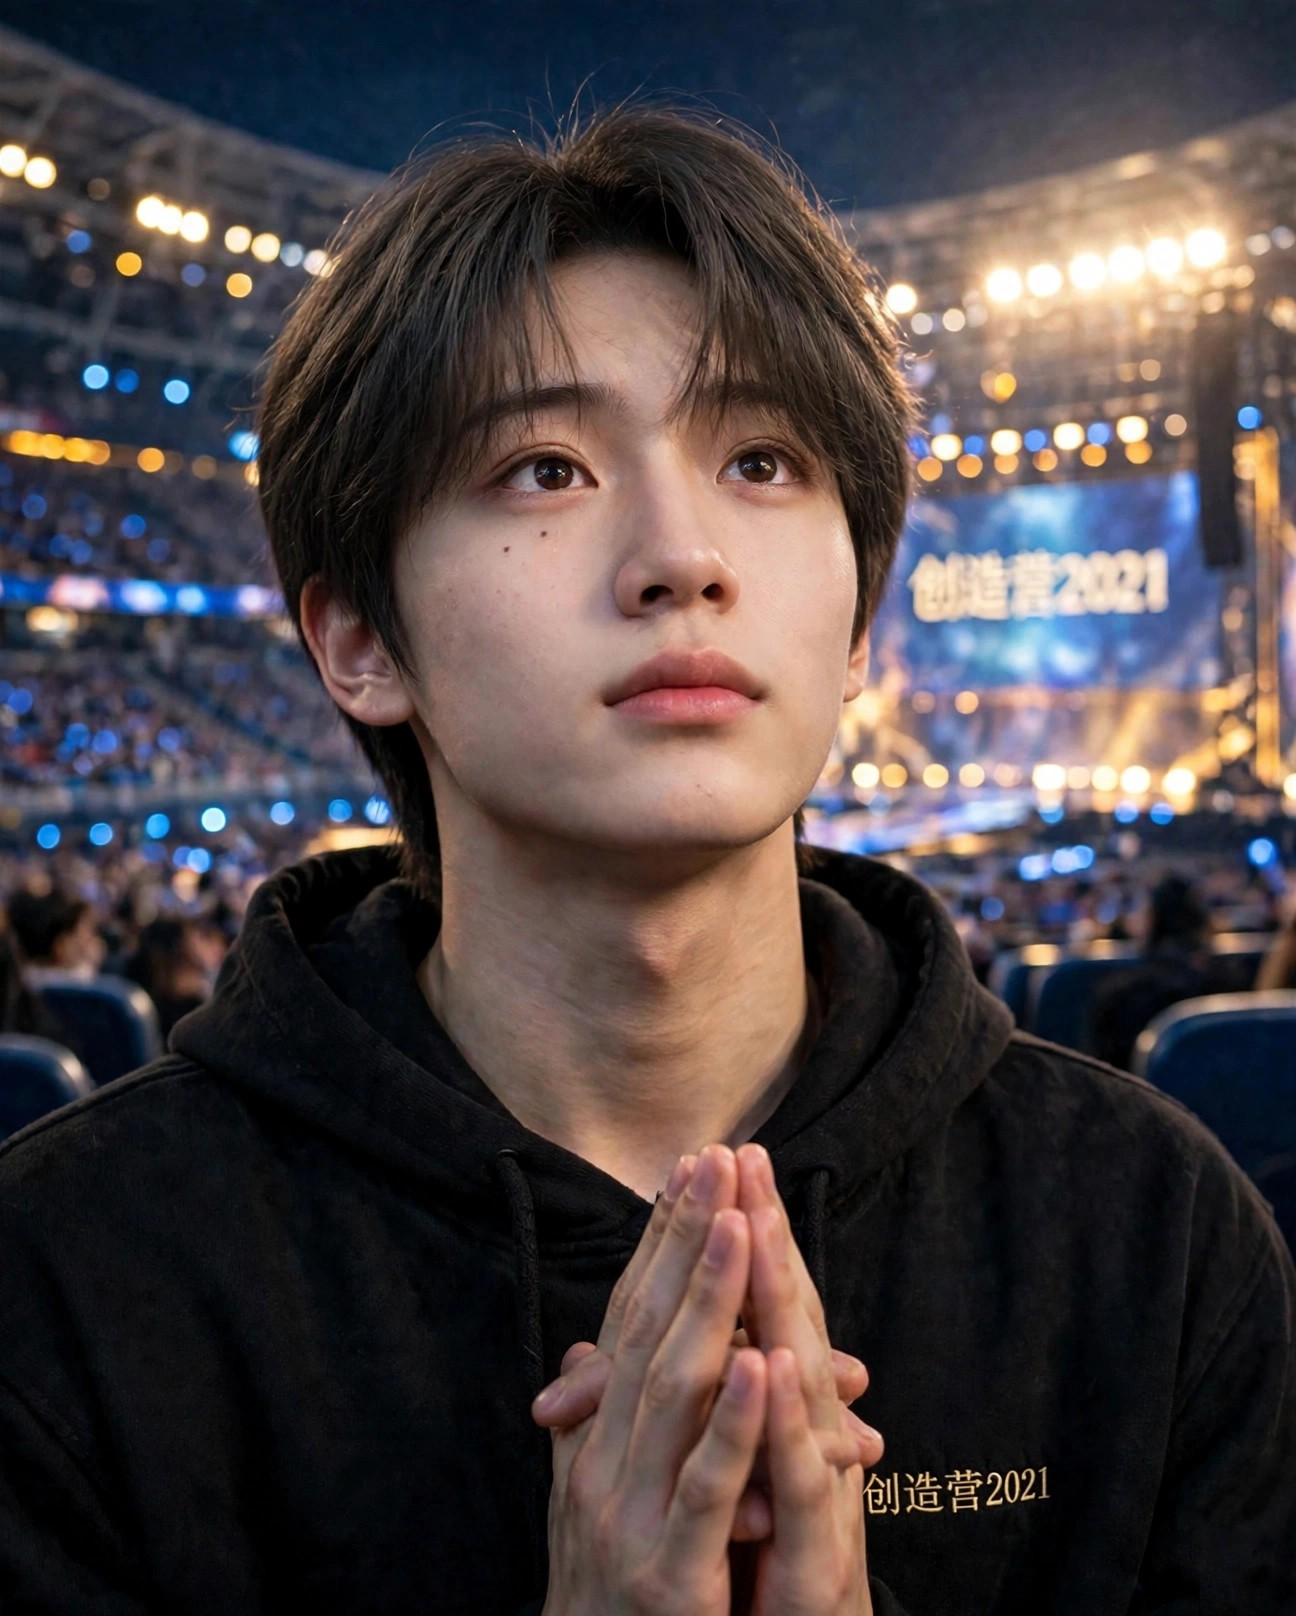
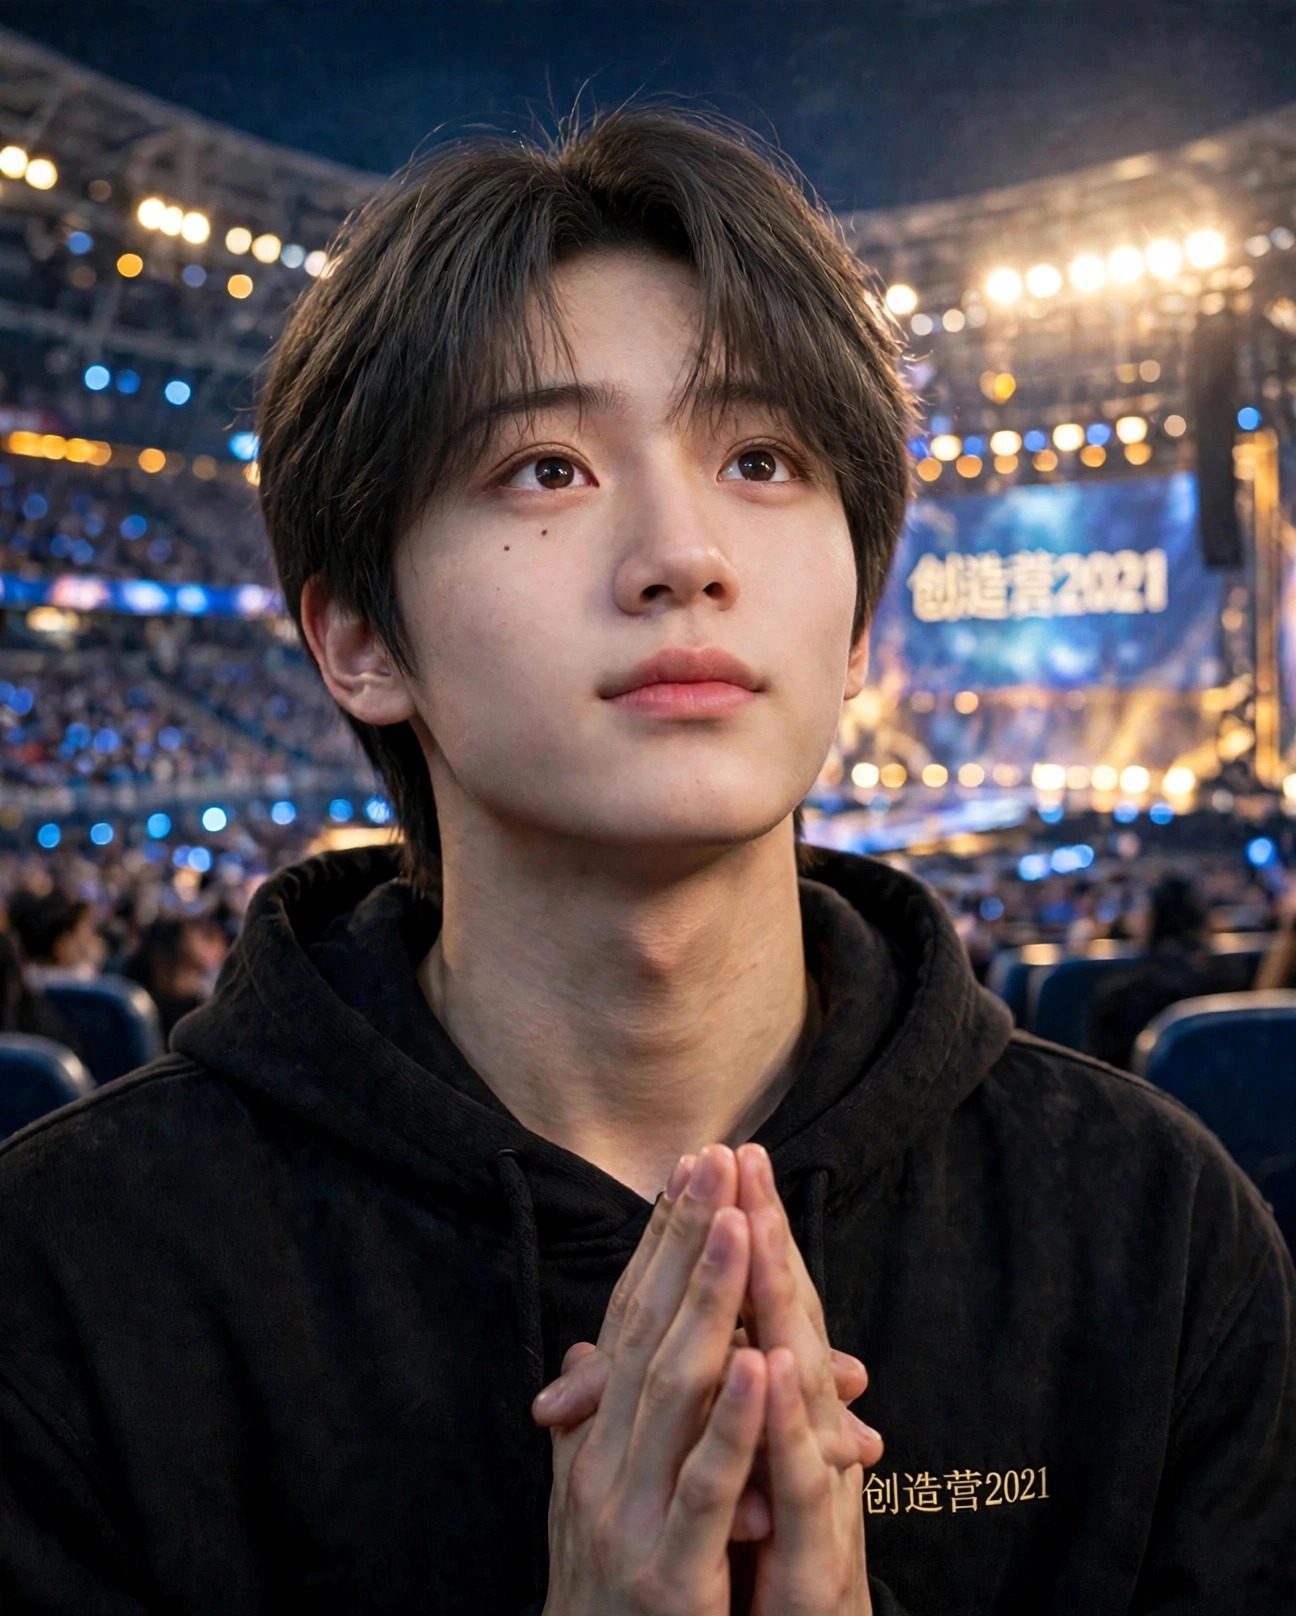
v159: 顔の全面監査で逸脱した3点を基準顔に再生成（2019 stage2／2021 ranking-close／2023 daily）

diff --git a/index.html b/index.html
@@ -806,7 +806,7 @@ body{font-family:-apple-system,"Hiragino Kaku Gothic ProN","Noto Sans JP",sans-s
 <script>
 "use strict";
 const $=s=>document.querySelector(s);
-const VER="v158";
+const VER="v159";
 /* ============ state ============ */
 const DEF={idx:0,started:false,consented:false,soundOn:true,
  g:{iwakan:0,bare:0,todoita:0,uta:8,dance:4,ishi:50},
